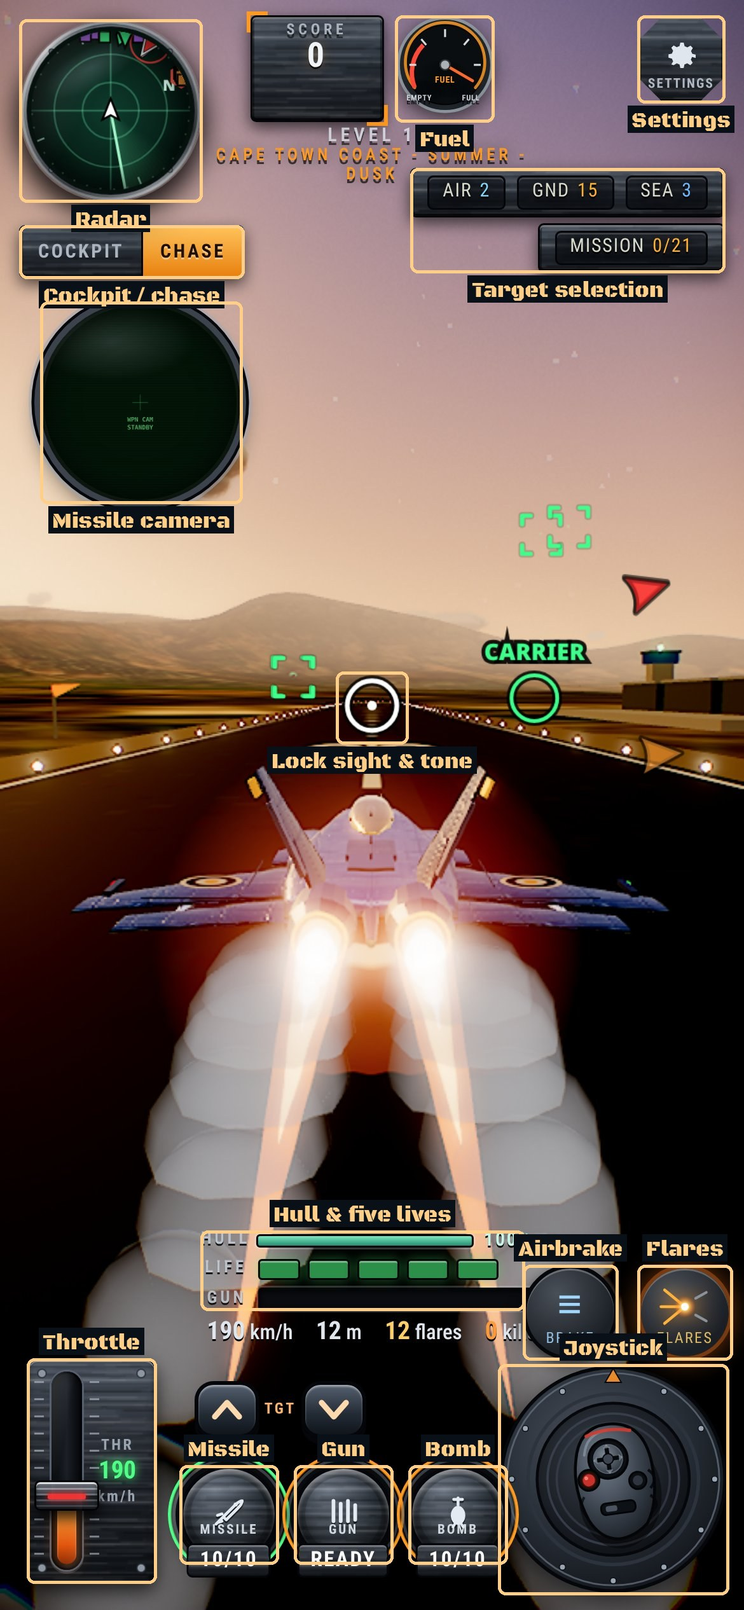
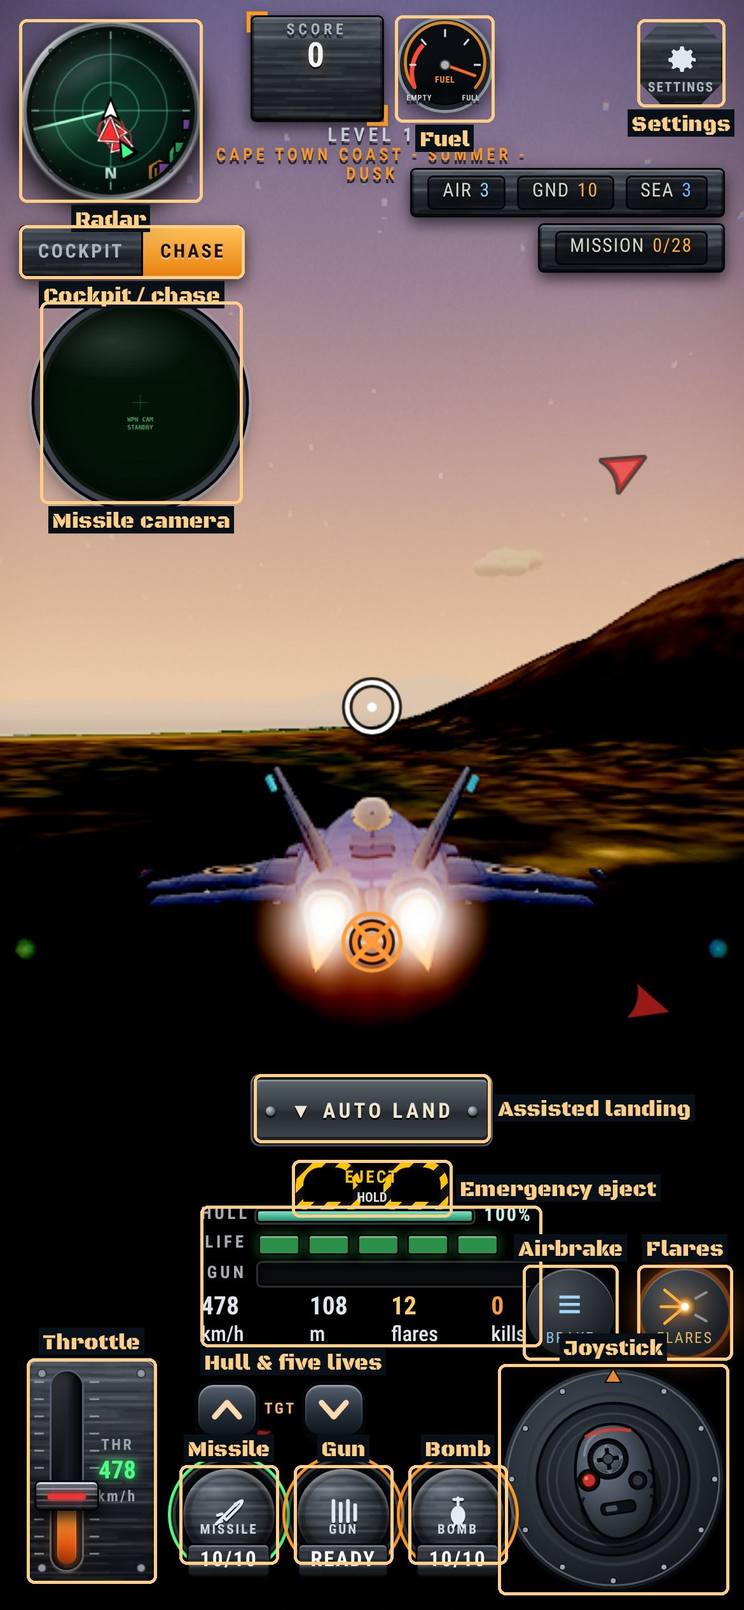
build 31

diff --git a/jet/howto/app.js b/jet/howto/app.js
@@ -1,6 +1,6 @@
 'use strict';
 const UI={
-en:{eyebrow:'BUILD 27 · INTERACTIVE FLIGHT MANUAL',headline:'Own the sky.',intro:'Tap any glowing control to learn. Then practice your moves — no lives or fuel at risk.',illustration:'ILLUSTRATED TRAINING HUD · NOT LIVE GAMEPLAY',tapHint:'Tap a control above, or browse the complete checklist below.',safeDemo:'SAFE PRACTICE · GESTURE LAB',practiceTitle:'Three moves. One stick.',practiceText:'Tap once for a missile. Double-tap for a bomb. Flick twice to the same side for a roll. Release between flicks.',demoNote:'Training simulation only. No weapons fire and no phone-motion permission is requested.',reference:'THE COMPLETE REFERENCE',controlsTitle:'Know your cockpit.',recognition:'TARGET RECOGNITION',targetsTitle:'Identify. Align. Attack.',modelsNote:'Actual game models, rendered for this guide. Appearance varies by scene; tap a card for tactics.',readyTitle:'Your next sortie starts here.',readyText:'Aim carefully. Keep moving. Come home with fuel to spare.',play:'PLAY JET-X ↗',download:'Save English quick guide ↓',footer:'Build 27 field guide · No tracking',done:'Got it',practice:'Try the joystick',lockTest:'Try lock tone · sound on',acquiring:'Acquiring… quiet chirps',locked:'LOCKED · steady tone',idle:'Try a gesture on the stick',missile:'MISSILE · single tap',bomb:'BOMB · double tap',roll:'EVASIVE ROLL · double flick',steer:'STEERING · drag',firstFlick:'One flick — repeat on the same side',close:'Close explanation',groundTitle:'ORANGE · ENEMY GROUND',airTitle:'RED · ENEMY AIR',seaTitle:'PURPLE · ENEMY SEA',friendTitle:'GREEN · FRIENDLY',bossTitle:'EVERY FIFTH LEVEL · BOSS',groundBody:'An enemy ground target. Align the orange bomb-impact marker with it, then tap BOMB or double-tap the still joystick. You can also use aimed gunfire. SAM and flak sites can fire back; keep moving. Buildings include hangars, fuel tanks, radar structures and bunkers. Alien scenes replace some ground models with walkers, turrets and spires.',airBody:'An enemy aircraft appearance used in build 27. Get behind it, keep it near the sight, wait for the steady lock tone, then launch a missile. Short aimed gun bursts also work. Aircraft can jink, release flares or fall burning after damage; a missile is not a guaranteed kill. These are visual variants, not separate unlocked aircraft classes.',seaBody:'A hostile sea target, shown purple on radar. Use aligned bombs, missiles or aimed gunfire while it is exposed. Submarines surface and dive; submerged ones cannot be selected. These roaming warships and submarines are extra score targets, not mandatory level objectives.',friendBody:'Friendly: do not attack. Green radar contacts include allied aircraft, ground forces, ships and landing facilities. Allies help a little but do not win the fight for you. The carrier is a service landing site: use AUTO LAND, correct gently, and stop fully to refuel, rearm and heal.',names:['Tank','Jeep','SAM launcher','Flak gun','Hangar','Fuel tanks','Radar installation','Bunker','Alien walker','Alien turret','Alien spire','Alien structure','Red fighter','Camouflaged fighter','Dark swept-wing fighter','Desert fighter','Purple alien fighter','Green alien fighter','Warship','Submarine','Friendly carrier','Your aircraft','Boss airframe']},
+en:{eyebrow:'BUILD 27 · INTERACTIVE FLIGHT MANUAL',headline:'Own the sky.',intro:'Tap any glowing control to learn. Then practice your moves — no lives or fuel at risk.',illustration:'ILLUSTRATED TRAINING HUD · NOT LIVE GAMEPLAY',tapHint:'Tap a control above, or browse the complete checklist below.',safeDemo:'SAFE PRACTICE · GESTURE LAB',practiceTitle:'Three moves. One stick.',practiceText:'Tap once for a missile. Double-tap for a bomb. Flick twice to the same side for a roll. Release between flicks.',demoNote:'Training simulation only. No weapons fire and no phone-motion permission is requested.',reference:'THE COMPLETE REFERENCE',controlsTitle:'Know your cockpit.',recognition:'TARGET RECOGNITION',targetsTitle:'Identify. Align. Attack.',modelsNote:'Actual game models, rendered for this guide. Appearance varies by scene; tap a card for tactics.',readyTitle:'Your next sortie starts here.',readyText:'Aim carefully. Keep moving. Come home with fuel to spare.',play:'PLAY JET-X ↗',download:'Save English quick guide ↓',footer:'Build 27 field guide · No tracking',done:'Got it',practice:'Try the joystick',lockTest:'Try lock tone · sound on',acquiring:'Acquiring… quiet chirps',locked:'LOCKED · steady tone',idle:'Try a gesture on the stick',missile:'MISSILE · single tap',bomb:'BOMB · double tap',roll:'EVASIVE ROLL · double flick',steer:'STEERING · drag',firstFlick:'One flick — repeat on the same side',close:'Close explanation',groundTitle:'ORANGE · ENEMY GROUND',airTitle:'RED · ENEMY AIR',seaTitle:'PURPLE · ENEMY SEA',friendTitle:'GREEN · FRIENDLY',bossTitle:'EVERY FIFTH LEVEL · BOSS',groundBody:'An enemy ground target. Align the orange bomb-impact marker with it, then tap BOMB or double-tap the still joystick. You can also use aimed gunfire. SAM and flak sites can fire back; keep moving. Buildings include hangars, fuel tanks, radar structures and bunkers.',airBody:'An enemy aircraft appearance used in build 27. Get behind it, keep it near the sight, wait for the steady lock tone, then launch a missile. Short aimed gun bursts also work. Aircraft can jink, release flares or fall burning after damage; a missile is not a guaranteed kill. These are visual variants, not separate unlocked aircraft classes.',seaBody:'A hostile sea target, shown purple on radar. Use aligned bombs, missiles or aimed gunfire while it is exposed. Submarines surface and dive; submerged ones cannot be selected. These roaming warships and submarines are extra score targets, not mandatory level objectives.',friendBody:'Friendly: do not attack. Green radar contacts include allied aircraft, ground forces, ships and landing facilities. Allies help a little but do not win the fight for you. The carrier is a service landing site: use AUTO LAND, correct gently, and stop fully to refuel, rearm and heal.',names:['Tank','Jeep','SAM launcher','Flak gun','Hangar','Fuel tanks','Radar installation','Bunker','Alien walker','Alien turret','Alien spire','Alien structure','Red fighter','Camouflaged fighter','Dark swept-wing fighter','Desert fighter','Purple alien fighter','Green alien fighter','Warship','Submarine','Friendly carrier','Your aircraft','Boss airframe']},
 fr:{eyebrow:'VERSION 27 · MANUEL DE VOL INTERACTIF',headline:'Maîtrisez le ciel.',intro:'Touchez une commande lumineuse pour apprendre, puis entraînez-vous sans risquer vies ni carburant.',illustration:'HUD D’ENTRAÎNEMENT ILLUSTRÉ · PAS LE JEU EN DIRECT',tapHint:'Touchez une commande ou parcourez la liste complète ci-dessous.',safeDemo:'ENTRAÎNEMENT SANS RISQUE · GESTES',practiceTitle:'Trois gestes. Un joystick.',practiceText:'Une touche pour un missile, deux pour une bombe. Deux impulsions du même côté pour un tonneau, en relâchant entre les deux.',demoNote:'Simulation uniquement. Aucun tir réel ni permission de mouvement du téléphone.',reference:'LA RÉFÉRENCE COMPLÈTE',controlsTitle:'Connaissez votre cockpit.',recognition:'RECONNAISSANCE DES CIBLES',targetsTitle:'Identifiez. Alignez. Attaquez.',modelsNote:'Modèles du jeu rendus pour ce guide. Leur apparence varie ; touchez une carte pour les tactiques.',readyTitle:'Votre prochaine sortie commence ici.',readyText:'Visez juste. Restez mobile. Gardez du carburant pour rentrer.',play:'JOUER À JET-X ↗',download:'Guide JPG en anglais ↓',footer:'Guide version 27 · Sans suivi',done:'Compris',practice:'Essayer le joystick',lockTest:'Essayer le son de verrouillage',acquiring:'Acquisition… bips discrets',locked:'VERROUILLÉ · son continu',idle:'Essayez un geste sur le joystick',missile:'MISSILE · une touche',bomb:'BOMBE · deux touches',roll:'TONNEAU · deux impulsions',steer:'PILOTAGE · glisser',firstFlick:'Une impulsion — répétez du même côté',close:'Fermer l’explication',groundTitle:'ORANGE · ENNEMIS AU SOL',airTitle:'ROUGE · AVIONS ENNEMIS',seaTitle:'VIOLET · ENNEMIS EN MER',friendTitle:'VERT · ALLIÉS',bossTitle:'CHAQUE CINQUIÈME NIVEAU · BOSS',groundBody:'Cible terrestre ennemie. Alignez le repère orange d’impact puis touchez BOMB ou deux fois le joystick immobile. Le canon bien visé fonctionne aussi. Les SAM et canons antiaériens ripostent : restez mobile. Les bâtiments comprennent hangars, réservoirs, radars et bunkers. Certains décors extraterrestres les remplacent par marcheurs, tourelles et flèches.',airBody:'Apparence d’avion ennemi de la version 27. Passez derrière lui, gardez-le dans le viseur et attendez le son continu avant de lancer. Les courtes rafales précises fonctionnent aussi. Il peut esquiver, lâcher des leurres ou tomber en flammes. Un missile ne garantit pas une élimination. Ce sont des variantes visuelles, pas des classes à débloquer.',seaBody:'Cible maritime hostile, violette au radar. Utilisez bombes alignées, missiles ou canon lorsqu’elle est exposée. Les sous-marins plongent ; impossible de les sélectionner sous l’eau. Ces navires et sous-marins itinérants rapportent des points mais ne sont pas des objectifs obligatoires.',friendBody:'Allié : ne tirez pas. Le vert indique avions, unités terrestres, navires et installations alliées. Ils aident un peu. Le porte-avions permet le ravitaillement : AUTO LAND, petites corrections et arrêt complet pour carburant, armes et réparations.',names:['Char','Jeep','Lanceur SAM','Canon antiaérien','Hangar','Réservoirs','Installation radar','Bunker','Marcheur extraterrestre','Tourelle extraterrestre','Flèche extraterrestre','Structure extraterrestre','Chasseur rouge','Chasseur camouflé','Chasseur sombre','Chasseur du désert','Chasseur violet','Chasseur vert','Navire de guerre','Sous-marin','Porte-avions allié','Votre avion','Cellule du boss']},
 he:{eyebrow:'גרסה 27 · מדריך טיסה אינטראקטיבי',headline:'שלטו בשמיים.',intro:'הקישו על בקר זוהר להסבר. תרגלו את התנועות בלי לבזבז חיים או דלק.',illustration:'תצוגת אימון מאוירת · לא משחק חי',tapHint:'הקישו על בקר למעלה או עיינו ברשימת הבקרים המלאה למטה.',safeDemo:'אימון בטוח · מעבדת מחוות',practiceTitle:'שלוש תנועות. סטיק אחד.',practiceText:'נקישה לטיל. שתי נקישות לפצצה. שתי הזזות מהירות לאותו צד לגלגול. שחררו בין ההזזות.',demoNote:'הדמיית אימון בלבד. אין ירי ולא מתבקשת הרשאת חיישני תנועה.',reference:'המדריך המלא',controlsTitle:'הכירו את הקוקפיט.',recognition:'זיהוי מטרות',targetsTitle:'זהו. כוונו. תקפו.',modelsNote:'דגמי המשחק המקוריים שהודמיו למדריך. המראה משתנה לפי הסצנה; הקישו לטקטיקות.',readyTitle:'הגיחה הבאה מתחילה כאן.',readyText:'כוונו היטב. המשיכו לנוע. השאירו דלק לחזרה.',play:'למשחק JET-X ↗',download:'שמירת מדריך JPG באנגלית ↓',footer:'מדריך גרסה 27 · ללא מעקב',done:'הבנתי',practice:'תרגול בסטיק',lockTest:'נסו את צליל הנעילה',acquiring:'רכישת מטרה… צפצופים חלשים',locked:'נעול · צליל רציף',idle:'נסו תנועה על הסטיק',missile:'טיל · נקישה אחת',bomb:'פצצה · שתי נקישות',roll:'גלגול התחמקות · שתי הזזות',steer:'היגוי · גרירה',firstFlick:'הזזה אחת — חזרו מהר לאותו צד',close:'סגירת ההסבר',groundTitle:'כתום · מטרות קרקע אויבות',airTitle:'אדום · מטוסי אויב',seaTitle:'סגול · אויבי ים',friendTitle:'ירוק · ידידותיים',bossTitle:'כל שלב חמישי · בוס',groundBody:'מטרת קרקע אויבת. יישרו אליה את סימון פגיעת הפצצה הכתום ואז לחצו BOMB או הקישו פעמיים על סטיק ללא תזוזה. אפשר גם ירי תותח מכוון. סוללות SAM ותותחי נ״מ מחזירים אש; המשיכו לנוע. המבנים כוללים האנגרים, מכלי דלק, רדארים ובונקרים. בסצנות חייזריות חלק מהדגמים מוחלפים בהולכים, צריחים וצריחי מגדל.',airBody:'דגם אויב אווירי שקיים בגרסה 27. הגיעו מאחור, שמרו אותו בכוונת וחכו לצליל רציף לפני השיגור. אפשר גם צרורות תותח מדויקים. האויב עשוי לתמרן, לפזר נורים או לצלול בוער אחרי פגיעה. טיל אינו מבטיח הפלה. אלה וריאציות מראה ולא מחלקות מטוסים לפתיחה.',seaBody:'מטרת ים עוינת שמסומנת בסגול. השתמשו בפצצות מכוונות, בטילים או בתותח כשהיא חשופה. צוללות עולות וצוללות; אי אפשר לבחור אותן כשהן שקועות. האוניות והצוללות המשוטטות מעניקות ניקוד נוסף ואינן יעדי חובה לסיום השלב.',friendBody:'ידידותי: אין לתקוף. ירוק מסמן מטוסים, כוחות קרקע, אוניות ומתקני נחיתה ידידותיים. הם עוזרים מעט אך לא מנצחים במקומכם. הנושאת היא אתר שירות: AUTO LAND, תיקונים קלים ועצירה מלאה לתדלוק, חימוש וריפוי.',names:['טנק','ג׳יפ','משגר SAM','תותח נ״מ','האנגר','מכלי דלק','מתקן רדאר','בונקר','הולך חייזרי','צריח חייזרי','מגדל חייזרי','מבנה חייזרי','מטוס אדום','מטוס מוסווה','מטוס כהה','מטוס מדברי','מטוס חייזרי סגול','מטוס חייזרי ירוק','אוניית מלחמה','צוללת','נושאת ידידותית','המטוס שלכם','גוף הבוס']},
 es:{eyebrow:'VERSIÓN 27 · MANUAL DE VUELO INTERACTIVO',headline:'Domina el cielo.',intro:'Toca un control luminoso para aprender. Practica sin gastar vidas ni combustible.',illustration:'HUD DE ENTRENAMIENTO ILUSTRADO · NO ES JUEGO EN VIVO',tapHint:'Toca un control o consulta la lista completa más abajo.',safeDemo:'PRÁCTICA SEGURA · GESTOS',practiceTitle:'Tres gestos. Una palanca.',practiceText:'Un toque para misil, dos para bomba. Dos impulsos al mismo lado para tonel. Suelta entre impulsos.',demoNote:'Solo simulación. No hay disparos ni se solicita permiso de movimiento.',reference:'REFERENCIA COMPLETA',controlsTitle:'Conoce tu cabina.',recognition:'IDENTIFICACIÓN DE OBJETIVOS',targetsTitle:'Identifica. Alinea. Ataca.',modelsNote:'Modelos reales del juego, renderizados para esta guía. Su aspecto varía; toca para ver tácticas.',readyTitle:'Tu próxima misión empieza aquí.',readyText:'Apunta bien. Sigue moviéndote. Reserva combustible para volver.',play:'JUGAR A JET-X ↗',download:'Guardar guía JPG en inglés ↓',footer:'Guía versión 27 · Sin seguimiento',done:'Entendido',practice:'Probar la palanca',lockTest:'Probar tono de fijación',acquiring:'Adquiriendo… pitidos suaves',locked:'FIJADO · tono continuo',idle:'Prueba un gesto en la palanca',missile:'MISIL · un toque',bomb:'BOMBA · dos toques',roll:'TONEL EVASIVO · dos impulsos',steer:'PILOTAJE · arrastrar',firstFlick:'Un impulso — repite al mismo lado',close:'Cerrar explicación',groundTitle:'NARANJA · ENEMIGOS TERRESTRES',airTitle:'ROJO · ENEMIGOS AÉREOS',seaTitle:'MORADO · ENEMIGOS MARÍTIMOS',friendTitle:'VERDE · ALIADOS',bossTitle:'CADA QUINTO NIVEL · JEFE',groundBody:'Objetivo terrestre enemigo. Alinea la marca naranja de impacto y toca BOMB o dos veces la palanca inmóvil. También sirve el cañón bien apuntado. Los SAM y cañones antiaéreos responden: sigue moviéndote. Hay hangares, depósitos, radares y búnkeres. En escenas alienígenas algunos modelos se sustituyen por caminantes, torretas y agujas.',airBody:'Aspecto de avión enemigo de la versión 27. Colócate detrás, céntralo y espera el tono continuo para lanzar un misil. También sirven ráfagas precisas. Puede esquivar, soltar bengalas o caer ardiendo. Un misil no garantiza una baja. Son variantes visuales, no clases desbloqueables.',seaBody:'Objetivo marítimo hostil, morado en radar. Usa bombas alineadas, misiles o cañón mientras esté expuesto. Los submarinos se sumergen y entonces no pueden seleccionarse. Estos barcos y submarinos dan puntos extra; no son objetivos obligatorios.',friendBody:'Aliado: no ataques. Verde indica aviones, fuerzas terrestres, barcos y zonas de aterrizaje amigas. Ayudan un poco. El portaaviones sirve para suministros: AUTO LAND, correcciones suaves y parada completa para repostar, rearmar y reparar.',names:['Tanque','Jeep','Lanzador SAM','Cañón antiaéreo','Hangar','Depósitos','Instalación radar','Búnker','Caminante alienígena','Torreta alienígena','Aguja alienígena','Edificio alienígena','Caza rojo','Caza camuflado','Caza oscuro','Caza del desierto','Caza alienígena morado','Caza alienígena verde','Buque de guerra','Submarino','Portaaviones aliado','Tu avión','Fuselaje del jefe']},
@@ -28,7 +28,7 @@ function render(){
  for(const b of document.querySelectorAll('.hotspot')){b.title=content[lang][b.dataset.id].title;b.setAttribute('aria-label',content[lang][b.dataset.id].title)}
  document.querySelectorAll('[data-demo]').forEach(b=>b.ariaLabel=text(b.dataset.demo));
  const gallery=$('#target-gallery');gallery.replaceChildren();const groups=[['ground',0,12,'#ffb365'],['air',12,18,'#ff8a83'],['sea',18,20,'#c49aff'],['friend',20,22,'#8cfdba'],['boss',22,23,'#ffb66d']];
- for(const [group,start,end,color] of groups){const section=document.createElement('section');section.className='gallery-group';section.style.setProperty('--group',color);const h=document.createElement('h3');h.textContent=text(group+'Title');section.append(h);const cards=document.createElement('div');cards.className='gallery-grid';for(let i=start;i<end;i++){const b=document.createElement('button');b.className='target-card';b.dataset.model=i;const img=document.createElement('img');img.src='assets/'+MODEL_IDS[i]+'.webp';img.alt='';img.loading='lazy';img.width=480;img.height=320;const span=document.createElement('span');span.textContent=UI[lang].names[i];const plus=document.createElement('b');plus.textContent='+';plus.ariaHidden='true';b.append(img,span,plus);cards.append(b)}section.append(cards);gallery.append(section)}
+ for(const [group,start,end,color] of groups){const section=document.createElement('section');section.className='gallery-group';section.style.setProperty('--group',color);const h=document.createElement('h3');h.textContent=text(group+'Title');section.append(h);const cards=document.createElement('div');cards.className='gallery-grid';for(let i=start;i<end;i++){if([8,9,10,11,16,17].includes(i))continue;/* b31: no aliens */const b=document.createElement('button');b.className='target-card';b.dataset.model=i;const img=document.createElement('img');img.src='assets/'+MODEL_IDS[i]+'.webp';img.alt='';img.loading='lazy';img.width=480;img.height=320;const span=document.createElement('span');span.textContent=UI[lang].names[i];const plus=document.createElement('b');plus.textContent='+';plus.ariaHidden='true';b.append(img,span,plus);cards.append(b)}section.append(cards);gallery.append(section)}
  if(active!==null)fillDialog(active);
 }
 function fillDialog(id){stopLock();const model=typeof id==='number';const d=model?modelInfo(id):content[lang][id];$('#detail-title').textContent=d.title;$('#detail-body').textContent=d.body;$('#detail-category').textContent=model?text(d.group+'Title'):text('reference');$('#detail-image').hidden=!model;if(model)$('#detail-image').src=d.image;$('#go-practice').hidden=id!=='stick';$('#lock-demo').hidden=id!=='lock';$('#lock-result').textContent='';}

diff --git a/jet/howto/index.html b/jet/howto/index.html
@@ -2,7 +2,7 @@
 <html lang="en" dir="ltr"><head><meta charset="utf-8"><meta name="viewport" content="width=device-width, initial-scale=1, viewport-fit=cover"><meta name="theme-color" content="#0b1420"><title>JET-X | Interactive flight manual</title><meta name="description" content="Learn every JET-X control, practice joystick gestures, and identify targets. A touch-first interactive flight manual for build 27."><link rel="icon" href="../img/icon-192.png"><link rel="canonical" href="https://fsdisrael-cloud.github.io/jet/howto/"><meta property="og:type" content="website"><meta property="og:title" content="JET-X — Own the sky"><meta property="og:description" content="Tap the cockpit. Learn the controls. Practice your moves."><meta property="og:url" content="https://fsdisrael-cloud.github.io/jet/howto/"><meta property="og:image" content="https://fsdisrael-cloud.github.io/jet/howto/og.jpg"><meta property="og:image:width" content="1200"><meta property="og:image:height" content="675"><meta property="og:image:alt" content="JET-X interactive flight manual with a fighter jet and glowing cockpit controls"><meta name="twitter:card" content="summary_large_image"><meta name="twitter:title" content="JET-X — Interactive flight manual"><meta name="twitter:description" content="Tap every control. Practice the joystick. Know your targets."><meta name="twitter:image" content="https://fsdisrael-cloud.github.io/jet/howto/og.jpg"><link rel="stylesheet" href="style.css"><script src="app.js" defer></script></head>
 <body><a href="#manual" class="skip">Skip to manual</a><nav class="langbar" aria-label="Language"><a class="brand-small" href="../" aria-label="JET-X game">JET-X <span>by TESSIE</span></a><div class="language-tools"><button id="english" type="button" lang="en" dir="ltr">English</button><select id="language" aria-label="Language / Langue / שפה / اللغة"><option value="en">English</option><option value="fr">Français</option><option value="he">עברית</option><option value="es">Español</option><option value="de">Deutsch</option><option value="ar">العربية</option></select></div></nav>
 <main id="manual"><header class="heading"><div><div class="eyebrow" data-ui="eyebrow">BUILD 27 · INTERACTIVE FLIGHT MANUAL</div><h1 data-ui="headline">Own the sky.</h1><p data-ui="intro">Tap any glowing control to learn. Then practice your moves — no lives or fuel at risk.</p></div><img class="head-logo" src="../img/logo_v7.webp" alt="JET-X"><span class="byline">by TESSIE</span></header>
-<section class="stage realstage" aria-label="Interactive HUD demonstration"><img class="realhud" src="assets/hud_real.jpg" alt="JET-X HUD" width="390" height="844"><button class="rhs hotspot" data-id="settings" style="left:85.64%;top:0.95%;width:11.79%;height:5.45%"><i>+</i></button><button class="rhs hotspot" data-id="radar" style="left:2.56%;top:1.18%;width:24.62%;height:11.37%"><i>+</i></button><button class="rhs hotspot" data-id="view" style="left:2.56%;top:13.98%;width:30.26%;height:3.32%"><i>+</i></button><button class="rhs hotspot" data-id="wcam" style="left:5.38%;top:18.72%;width:27.18%;height:12.56%"><i>+</i></button><button class="rhs hotspot" data-id="level" style="left:26.92%;top:0.95%;width:45.90%;height:10.66%"><i>+</i></button><button class="rhs hotspot" data-id="fuel" style="left:53.08%;top:0.95%;width:13.33%;height:6.64%"><i>+</i></button><button class="rhs hotspot" data-id="level" style="left:55.13%;top:10.43%;width:42.31%;height:6.52%"><i>+</i></button><button class="rhs hotspot" data-id="lock" style="left:45.13%;top:41.71%;width:9.74%;height:4.50%"><i>+</i></button><button class="rhs hotspot" data-id="look" style="left:30.77%;top:21.33%;width:38.46%;height:14.22%"><i>+</i></button><button class="rhs hotspot" data-id="hull" style="left:26.92%;top:76.42%;width:43.59%;height:4.98%"><i>+</i></button><button class="rhs hotspot" data-id="flight" style="left:26.92%;top:81.64%;width:45.90%;height:2.13%"><i>+</i></button><button class="rhs hotspot" data-id="brake" style="left:70.26%;top:78.55%;width:12.82%;height:5.92%"><i>+</i></button><button class="rhs hotspot" data-id="flares" style="left:85.64%;top:78.55%;width:12.82%;height:5.92%"><i>+</i></button><button class="rhs hotspot" data-id="stick" style="left:66.92%;top:84.72%;width:31.03%;height:14.34%"><i>+</i></button><button class="rhs hotspot" data-id="throttle" style="left:3.59%;top:84.36%;width:17.44%;height:13.98%"><i>+</i></button><button class="rhs hotspot" data-id="missile" style="left:24.10%;top:91.00%;width:13.33%;height:6.16%"><i>+</i></button><button class="rhs hotspot" data-id="gun" style="left:39.49%;top:91.00%;width:13.33%;height:6.16%"><i>+</i></button><button class="rhs hotspot" data-id="bomb" style="left:54.87%;top:91.00%;width:13.33%;height:6.16%"><i>+</i></button><button class="rhs hotspot" data-id="target" style="left:26.15%;top:85.78%;width:23.33%;height:3.55%"><i>+</i></button></section>
+<section class="stage realstage" aria-label="Interactive HUD demonstration"><button class="rhs hotspot" data-id="land" style="left:34.10%;top:66.71%;width:31.79%;height:4.27%"><i>+</i></button><img class="realhud" src="assets/hud_real.jpg" alt="JET-X HUD" width="390" height="844"><button class="rhs hotspot" data-id="settings" style="left:85.64%;top:1.18%;width:11.79%;height:5.45%"><i>+</i></button><button class="rhs hotspot" data-id="radar" style="left:2.56%;top:1.18%;width:24.62%;height:11.37%"><i>+</i></button><button class="rhs hotspot" data-id="view" style="left:2.56%;top:13.98%;width:30.26%;height:3.32%"><i>+</i></button><button class="rhs hotspot" data-id="wcam" style="left:5.38%;top:18.72%;width:27.18%;height:12.56%"><i>+</i></button><button class="rhs hotspot" data-id="level" style="left:26.92%;top:0.95%;width:45.90%;height:10.66%"><i>+</i></button><button class="rhs hotspot" data-id="fuel" style="left:53.08%;top:0.95%;width:13.33%;height:6.64%"><i>+</i></button><button class="rhs hotspot" data-id="target" style="left:26.15%;top:85.78%;width:23.33%;height:3.55%"><i>+</i></button><button class="rhs hotspot" data-id="hull" style="left:26.92%;top:74.88%;width:45.90%;height:8.77%"><i>+</i></button><button class="rhs hotspot" data-id="brake" style="left:70.26%;top:78.55%;width:12.82%;height:5.92%"><i>+</i></button><button class="rhs hotspot" data-id="flares" style="left:85.64%;top:78.55%;width:12.82%;height:5.92%"><i>+</i></button><button class="rhs hotspot" data-id="stick" style="left:66.92%;top:84.72%;width:31.03%;height:14.34%"><i>+</i></button><button class="rhs hotspot" data-id="throttle" style="left:3.59%;top:84.36%;width:17.44%;height:13.98%"><i>+</i></button><button class="rhs hotspot" data-id="missile" style="left:24.10%;top:91.00%;width:13.33%;height:6.16%"><i>+</i></button><button class="rhs hotspot" data-id="gun" style="left:39.49%;top:91.00%;width:13.33%;height:6.16%"><i>+</i></button><button class="rhs hotspot" data-id="bomb" style="left:54.87%;top:91.00%;width:13.33%;height:6.16%"><i>+</i></button><button class="rhs hotspot" data-id="eject" style="left:39.23%;top:72.04%;width:21.54%;height:3.55%"><i>+</i></button><button class="rhs hotspot" data-id="level" style="left:55.13%;top:10.43%;width:42.31%;height:6.52%"><i>+</i></button><button class="rhs hotspot" data-id="look" style="left:30.77%;top:35.55%;width:38.46%;height:14.22%"><i>+</i></button></section>
 <div class="hint"><span class="pulse-dot"></span><span data-ui="tapHint">Tap a control above, or browse the complete checklist below.</span></div>
 <section class="practice panel" id="practice"><div><div class="eyebrow" data-ui="safeDemo">SAFE PRACTICE · GESTURE LAB</div><h2 data-ui="practiceTitle">Three moves. One stick.</h2><p data-ui="practiceText">Tap once for a missile. Double-tap for a bomb. Flick twice to the same side for a roll. Release between flicks.</p><p class="demo-note" data-ui="demoNote">Training simulation only. No weapons fire and no phone-motion permission is requested.</p></div><div class="lab"><div id="practice-stick" role="application" tabindex="0" aria-label="Practice joystick"><div class="axis x"></div><div class="axis y"></div><span id="knob"></span><small>← · →</small></div><output id="gesture-result" aria-live="polite"></output><div class="demo-actions"><button data-demo="missile">1×</button><button data-demo="bomb">2×</button><button data-demo="roll">⇄</button></div></div></section>
 <section class="checklist"><div class="section-head"><div><div class="eyebrow" data-ui="reference">THE COMPLETE REFERENCE</div><h2 data-ui="controlsTitle">Know your cockpit.</h2></div><span class="count">24</span></div><div id="control-grid" class="control-grid"></div></section>

diff --git a/jet/js/main.js b/jet/js/main.js
@@ -1,17 +1,17 @@
 // Jet - app shell. One opening screen, then straight into play. No settings, no options.
 import * as THREE from "three";
-import { createGame } from "./game.js?v=30";
-import { createHud } from "./hud.js?v=30";
-import { createControls } from "./controls.js?v=30";
-import { runLabel, PLANETS, JET_TYPES, saveScene, loadScene, titleRun } from "./variety.js?v=30";
-import { createAudio, trackFor } from "./audio.js?v=30";
-import { createHaptics } from "./haptics.js?v=30";
-import { createRain2D } from "./rain2d.js?v=30";
-import { createLoading } from "./loading.js?v=30";
-import { logo3dHTML, initLogo3d } from "./logo3d.js?v=30";
-import { setSurreal, tickStyle } from "./surreal.js?v=30";
-import { LANGS, getLang, langInfo, setLang, initLang, applyDom, watchDom, tr } from "./i18n.js?v=30";
-import { LEVELS, BIOMES, buildLevel, levelCount, loadLevelNo, saveLevelNo } from "./levels.js?v=30";
+import { createGame } from "./game.js?v=31";
+import { createHud } from "./hud.js?v=31";
+import { createControls } from "./controls.js?v=31";
+import { runLabel, PLANETS, JET_TYPES, saveScene, loadScene, titleRun } from "./variety.js?v=31";
+import { createAudio, trackFor } from "./audio.js?v=31";
+import { createHaptics } from "./haptics.js?v=31";
+import { createRain2D } from "./rain2d.js?v=31";
+import { createLoading } from "./loading.js?v=31";
+import { logo3dHTML, initLogo3d } from "./logo3d.js?v=31";
+import { setSurreal, tickStyle } from "./surreal.js?v=31";
+import { LANGS, getLang, langInfo, setLang, initLang, applyDom, watchDom, tr } from "./i18n.js?v=31";
+import { LEVELS, BIOMES, buildLevel, levelCount, loadLevelNo, saveLevelNo } from "./levels.js?v=31";
 
 const $ = (id) => document.getElementById(id);
 
@@ -191,7 +191,7 @@ function writeSave() {
 }
 function clearSave() { try { localStorage.removeItem(SAVE_KEY); } catch { /* ignore */ } }
 const MENU_BUTTONS = [
-  { id: "cont", label: "CONT", sub: "RESUME SORTIE", run: () => { const sv = readSave(); if (sv) play(sv); } },
+  { id: "cont", label: "CONTINUE", sub: "", run: () => { const sv = readSave(); if (sv) play(sv); } },
   { id: "new", label: "NEW", sub: "NEW SORTIE", primary: true, run: () => { clearSave(); play(); } },
 ];
 const SEC_LINKS = [
@@ -211,7 +211,8 @@ function buildMenu() {
     const off = b.id === "cont" && !sv;
     if (off || b.id === "new") continue;   // b26: TAP TO FLY starts a new sortie; CONT only shows when there is a save
     el.type = "button"; el.className = "plate" + (b.primary ? " go" : "") + (off ? " off" : ""); el.disabled = off;
-    el.innerHTML = `<i class="led"></i><span class="pt">${b.label}</span><em class="ps">${off ? "NO SAVE" : b.sub}</em>`;
+    if (b.id === "cont") { el.className = "t26-cont"; el.innerHTML = `<span>${b.label}</span>`; }   // b31: same style as the TAP TO FLY plate
+    else el.innerHTML = `<i class="led"></i><span class="pt">${b.label}</span><em class="ps">${off ? "NO SAVE" : b.sub}</em>`;
     el.addEventListener("click", (e) => { e.stopPropagation(); b.run(); });
     box.appendChild(el);
   }
@@ -544,7 +545,7 @@ $("btn-eject")?.addEventListener("click", () => game.eject());
 { const h = $("eject-handles"); let tm = 0; const go = (e) => { e.preventDefault(); e.stopPropagation(); h.classList.add("pull"); clearTimeout(tm); tm = setTimeout(() => { h.classList.remove("pull"); game.ejectNow?.(); }, 800); };
   const stop = () => { clearTimeout(tm); h.classList.remove("pull"); };
   h?.addEventListener("touchstart", go, { passive: false }); h?.addEventListener("mousedown", go); for (const n of ["touchend", "touchcancel", "mouseup", "mouseleave"]) h?.addEventListener(n, stop); }
-$("btn-takeoff")?.addEventListener("click", () => game.takeoff());
+$("btn-takeoff")?.addEventListener("click", () => { controls.calibrate(); game.takeoff(); });   // b31: tilt neutral = how you hold the phone at takeoff
 $("btn-autoland")?.addEventListener("click", () => game.autoLand());
 window.addEventListener("keydown", (e) => { if (e.code === "Enter" && !e.repeat) game.takeoff(); if (e.code === "KeyL" && !e.repeat) game.autoLand(); });
 window.__ubu = { goBackground, readSave, writeSave, game, controls, audio, hud, loading, state: () => state, play, launch, levelNo: () => levelNo };

diff --git a/jet/js/game.js b/jet/js/game.js
@@ -1,15 +1,15 @@
 // Ubu game world: flight model, camera, targets, AI, weapons, effects, objectives.
-import { createPost } from "./post.js?v=30";
+import { createPost } from "./post.js?v=31";
 import * as THREE from "three";
-import { buildTerrain } from "./terrain.js?v=30";
-import { createSky } from "./sky.js?v=30";
-import { createPilot, createSeat, createChute, createAirstrip, STRIP, createPlayerJet, setCockpitMode, createEnemyJet, createAllyJet, createTank, createJeep, createAlienWalker, createAlienTurret, createAlienSpire, createHive, createShip, createWarship, createSub, createSamSite, createRocket, createHeli, createBomb, puffGeometry, initEnv, createCarrier, CARRIER, createBaseBuilding, createFlakGun, HARDPOINTS, setTargetStyle, glowSprite } from "./models.js?v=30";
-import { JET_TYPES, FOE_TYPES, SEASONS, runLabel } from "./variety.js?v=30";
-import { createRing, createBalloon, createPracticeTarget, createDrone } from "./entities.js?v=30";
-import { toonMaterial, outlineMaterial, toonModel, PartBuilder, G, outlineUniforms } from "./toon.js?v=30";
-import { POINTS, LABEL, LABEL1, mulberry32 } from "./missions.js?v=30";
-import { setQuality, FX as FXQ } from "./tex.js?v=30";
-import { style, patchTerrain, waveAt, createDreamShapes, onStyle, setLake } from "./surreal.js?v=30";
+import { buildTerrain } from "./terrain.js?v=31";
+import { createSky } from "./sky.js?v=31";
+import { createPilot, createSeat, createChute, createAirstrip, STRIP, createPlayerJet, setCockpitMode, createEnemyJet, createAllyJet, createTank, createJeep, createAlienWalker, createAlienTurret, createAlienSpire, createHive, createShip, createWarship, createSub, createSamSite, createRocket, createHeli, createBomb, puffGeometry, initEnv, createCarrier, CARRIER, createBaseBuilding, createFlakGun, HARDPOINTS, setTargetStyle, glowSprite } from "./models.js?v=31";
+import { JET_TYPES, FOE_TYPES, SEASONS, runLabel } from "./variety.js?v=31";
+import { createRing, createBalloon, createPracticeTarget, createDrone } from "./entities.js?v=31";
+import { toonMaterial, outlineMaterial, toonModel, PartBuilder, G, outlineUniforms } from "./toon.js?v=31";
+import { POINTS, LABEL, LABEL1, mulberry32 } from "./missions.js?v=31";
+import { setQuality, FX as FXQ } from "./tex.js?v=31";
+import { style, patchTerrain, waveAt, createDreamShapes, onStyle, setLake } from "./surreal.js?v=31";
 
 const V = () => new THREE.Vector3();
 const tA = V(), tB = V(), tC = V(), tD = V(), tE = V();
@@ -1110,7 +1110,7 @@ export function createGame({ renderer, audio, controls, haptics, events }) {
     if (dK > 0 && assistDanger < 0.05 && !loopPull_) {
       const bk = player.bank;
       rr -= THREE.MathUtils.clamp(bk * 2.6, -2.4, 2.4) * dK;          // roll upright by the short way
-      if (Math.abs(bk) < 1.9 && !controls.gyroActive?.()) pitchRate -= THREE.MathUtils.clamp(player.pitch * 1.9, -1.1, 1.1) * dK * Math.max(0, 1 - Math.abs(bk) / 1.9);
+      if (Math.abs(bk) < 1.9) pitchRate -= THREE.MathUtils.clamp(player.pitch * 1.9, -1.1, 1.1) * dK * Math.max(0, 1 - Math.abs(bk) / 1.9);
     }
     // ground rescue: roll upright first if inverted, then pull
     if (assistDanger > 0.02) {

diff --git a/jet/js/variety.js b/jet/js/variety.js
@@ -85,7 +85,7 @@ function wpick(table, r) {
 /** Roll one run. `rng` defaults to Math.random (a new world every restart). */
 export function rollRun(rng = Math.random) {
   // scene mix: ~70% Earth daylight, ~15% Earth dusk / night / bad weather, ~15% alien worlds
-  const rs = rng(), kind = rs < 0.15 ? "alien" : rs < 0.30 ? "variant" : "day";
+  const rs = rng(), kind = rs < 0.18 ? "variant" : "day";   // b31: no alien worlds
   const planetKey = kind === "alien" ? pick(["mars", "ice", "toxic", "violet", "lava"], rng) : "earth";
   const planet = PLANETS[planetKey];
   const place = pick(EARTH_PLACES, rng);
@@ -104,7 +104,7 @@ export function rollRun(rng = Math.random) {
   // test / share hook: ?time=night&planet=lava&season=winter&weather=clear&jet=raptor&place=3
   try {
     const q = new URLSearchParams(location.search);
-    if (q.get("planet") && PLANETS[q.get("planet")]) { var qp = q.get("planet"); }
+    var qp = null;   // b31: alien planets removed
     var ov = { time: q.get("time"), season: q.get("season"), weather: q.get("weather"), jet: q.get("jet"), foe: q.get("foe"), tgt: q.get("tgt"), place: q.get("place") };
   } catch { var ov = {}; }
   const R = { planetKey, planet, place, time, season, weather, jet, foe, tgt, mix: [0.6 + rng() * 0.9, 0.6 + rng() * 0.9, rng() < 0.2 ? 0 : 0.6 + rng() * 0.9, rng() < 0.2 ? 0 : 0.6 + rng() * 0.9], seed: (rng() * 4294967295) >>> 0 };
@@ -127,7 +127,7 @@ export function saveScene(run) {
 }
 export function loadScene() {
   try {
-    const o = JSON.parse(localStorage.getItem(SCENE_KEY)); if (!o || !PLANETS[o.planetKey]) return null;
+    const o = JSON.parse(localStorage.getItem(SCENE_KEY)); if (!o || o.planetKey !== "earth" || !PLANETS[o.planetKey]) return null;
     const place = EARTH_PLACES.find((p) => p.name === o.place) || EARTH_PLACES[0];
     return { planetKey: o.planetKey, planet: PLANETS[o.planetKey], place, time: o.time, season: o.season, weather: o.weather, jet: o.jet, foe: o.foe, tgt: o.tgt, mix: o.mix, seed: o.seed };
   } catch { return null; }

diff --git a/jet/css/jet.css b/jet/css/jet.css
@@ -801,3 +801,12 @@ body.in-game .ej-h { display:block; }
 .ej-h { bottom:calc(var(--safe-b, 0px) + 206px); }
 .autoland { bottom:calc(var(--safe-b, 0px) + 244px) !important; }
 @media (orientation: landscape) { .ej-h { bottom:calc(var(--safe-b, 0px) + 8px); } }
+
+/* b31: CONTINUE = a smaller twin of the TAP TO FLY plate (dark plate, glowing orange frame, bold italic white) */
+.t26-cont { position:relative; display:block; padding:9px 30px; border:2px solid #ff9a2a; border-radius:10px; background:linear-gradient(180deg, rgba(38,28,20,.94), rgba(14,10,8,.96)); box-shadow:0 0 10px rgba(255,140,30,.85), 0 0 22px rgba(255,120,20,.45), inset 0 0 8px rgba(255,150,40,.35); cursor:pointer; touch-action:manipulation; }
+.t26-cont span { font:italic 900 clamp(18px, 5vw, 26px)/1 "Rajdhani", "Barlow Condensed", Impact, system-ui, sans-serif; letter-spacing:.06em; color:#fff; text-shadow:0 2px 0 #000, 0 0 6px rgba(255,170,60,.6); }
+.t26-cont:active { transform:scale(.97); }
+/* b31: language list anchored under the pill, left-aligned, always fully on screen */
+.t26 .t26-lang .t26-langlist:not(.float) { left:0 !important; right:auto !important; transform:none !important; top:calc(100% + 6px) !important; width:min(280px, calc(100vw - 24px - env(safe-area-inset-left, 0px))) !important; max-height:min(60vh, calc(100vh - 80px - env(safe-area-inset-top, 0px))) !important; overflow-y:auto !important; }
+.t26-langlist.float { width:min(280px, calc(100vw - 24px)) !important; max-height:min(60vh, calc(100vh - 90px)) !important; }
+#resume .menu-buttons { display:flex !important; flex-direction:column !important; gap:14px !important; align-items:center; position:static !important; transform:none !important; }

diff --git a/jet/index.html b/jet/index.html
@@ -18,8 +18,8 @@
   <link rel="icon" type="image/png" sizes="192x192" href="img/icon-192.png" />
   <link rel="apple-touch-icon" sizes="180x180" href="img/icon-180.png" />
   <link rel="preload" href="fonts/Fredoka.ttf" as="font" type="font/ttf" crossorigin />
-  <link rel="stylesheet" href="css/jet.css?v=30" />
-  <link rel="stylesheet" href="css/loading.css?v=30" />
+  <link rel="stylesheet" href="css/jet.css?v=31" />
+  <link rel="stylesheet" href="css/loading.css?v=31" />
   <script type="importmap">{ "imports": { "three": "./js/vendor/three.module.min.js" } }</script>
 <script>window.__titleArt=0;</script>
 </head>
@@ -191,12 +191,12 @@
     <div class="resume-inner">
       <div data-logo3d="logo-img"></div>
       <div class="plates menu-buttons">
-        <button type="button" class="plate" id="rs-cont"><i class="led"></i><span class="pt">CONT</span><em class="ps">RESUME SORTIE</em></button>
-        <button type="button" class="plate go" id="rs-new"><i class="led"></i><span class="pt">NEW</span><em class="ps">NEW SCENE</em></button>
+        <button type="button" class="t26-cont" id="rs-cont"><span>CONTINUE</span></button>
+        <button type="button" class="t26-cont" id="rs-new"><span>NEW GAME</span></button>
       </div>
     </div>
   </section>
   <div id="build-tag" class="build-tag"></div>
-  <script type="module" src="js/main.js?v=30"></script>
+  <script type="module" src="js/main.js?v=31"></script>
 </body>
 </html>

diff --git a/jet/js/controls.js b/jet/js/controls.js
@@ -14,9 +14,9 @@ const D2R = Math.PI / 180;
 export const CONTROL_CFG = {
   stickDragUpIsNoseUp: true,  // build 19 default: push the stick UP = nose UP (climb). INVERT PITCH toggle (settings) = real aircraft style
   stickRadiusPx: 56,         // drag distance for full deflection
-  tiltRangePitchDeg: 22,     // degrees of tilt for full pitch input
-  tiltRangeRollDeg: 26,      // degrees of tilt for full roll input
-  tiltDeadZoneDeg: 5,
+  tiltRangePitchDeg: 55,     // degrees of tilt for full pitch input
+  tiltRangeRollDeg: 65,      // degrees of tilt for full roll input
+  tiltDeadZoneDeg: 4,
   tiltSmoothing: 14,         // higher = snappier
   stickReturn: 12,           // spring-back speed of the joystick
   lookYawPerScreen: 3.6,     // head-look: radians of view yaw for a swipe across the full screen width

diff --git a/jet/js/loading.js b/jet/js/loading.js
@@ -3,9 +3,9 @@
 //   - styling lives in css/loading.css,
 //   - the game only calls loading.show(), loading.set(progress 0..1, text) and loading.hide().
 // Galoo's final loading graphics can replace the template/CSS without touching the game.
-import { logo3dHTML } from "./logo3d.js?v=30";
+import { logo3dHTML } from "./logo3d.js?v=31";
 const TITLE = "JET-X"; // alt text; the visible wordmark is img/wordmark.png (swap that file to rebrand)
-const WORDMARK = "img/logo_v6.png?v=30";
+const WORDMARK = "img/logo_v6.png?v=31";
 const ART = []; // chosen by orientation in css/loading.css
 const TIPS = [
   "Tilt the top of your phone up to climb, down to dive.",

diff --git a/jet/js/sky.js b/jet/js/sky.js
@@ -1,8 +1,8 @@
 // Time of day + weather: sky dome, sun/moon, stars, lights, fog, toon clouds, rain/snow, lightning.
-import { FX } from "./tex.js?v=30";
+import { FX } from "./tex.js?v=31";
 import * as THREE from "three";
-import { PartBuilder, G, getGradientMap, outlineMaterial } from "./toon.js?v=30";
-import { style, skyHueChunk } from "./surreal.js?v=30";
+import { PartBuilder, G, getGradientMap, outlineMaterial } from "./toon.js?v=31";
+import { style, skyHueChunk } from "./surreal.js?v=31";
 
 export const TIMES = ["dawn", "day", "dusk", "night"];
 export const WEATHERS = ["clear", "cloudy", "rain", "fog", "snow", "storm"];

diff --git a/jet/js/surreal.js b/jet/js/surreal.js
@@ -2,8 +2,8 @@
 // Surreal = pastel hue-shifting palette, gently wavy/melting terrain, soft outlines,
 // floating dream shapes and a cheap CSS glow. All GPU-cheap: a few shader lines + 4 draw calls.
 import * as THREE from "three";
-import { noiseTex, FX, terrainPhotos, BUMP_GLSL } from "./tex.js?v=30";
-import { outlineUniforms, toonMaterial, PartBuilder, G, outlineMaterial } from "./toon.js?v=30";
+import { noiseTex, FX, terrainPhotos, BUMP_GLSL } from "./tex.js?v=31";
+import { outlineUniforms, toonMaterial, PartBuilder, G, outlineMaterial } from "./toon.js?v=31";
 
 const KEY = "jet-style";
 export const style = {

diff --git a/jet/js/models.js b/jet/js/models.js
@@ -2,8 +2,8 @@
 // Player + enemy jets: PBR-lit (metal, glossy canopy, environment reflections) with a thin illustrated outline.
 // Ground units: toon + outline. Illustrated look, readable colours.
 import * as THREE from "three";
-import { PartBuilder, toonModel, G, toonMaterial, outlineMaterial, smoothNormals } from "./toon.js?v=30";
-import { patchDetail, missileTex } from "./tex.js?v=30";
+import { PartBuilder, toonModel, G, toonMaterial, outlineMaterial, smoothNormals } from "./toon.js?v=31";
+import { patchDetail, missileTex } from "./tex.js?v=31";
 
 const PI = Math.PI;
 
